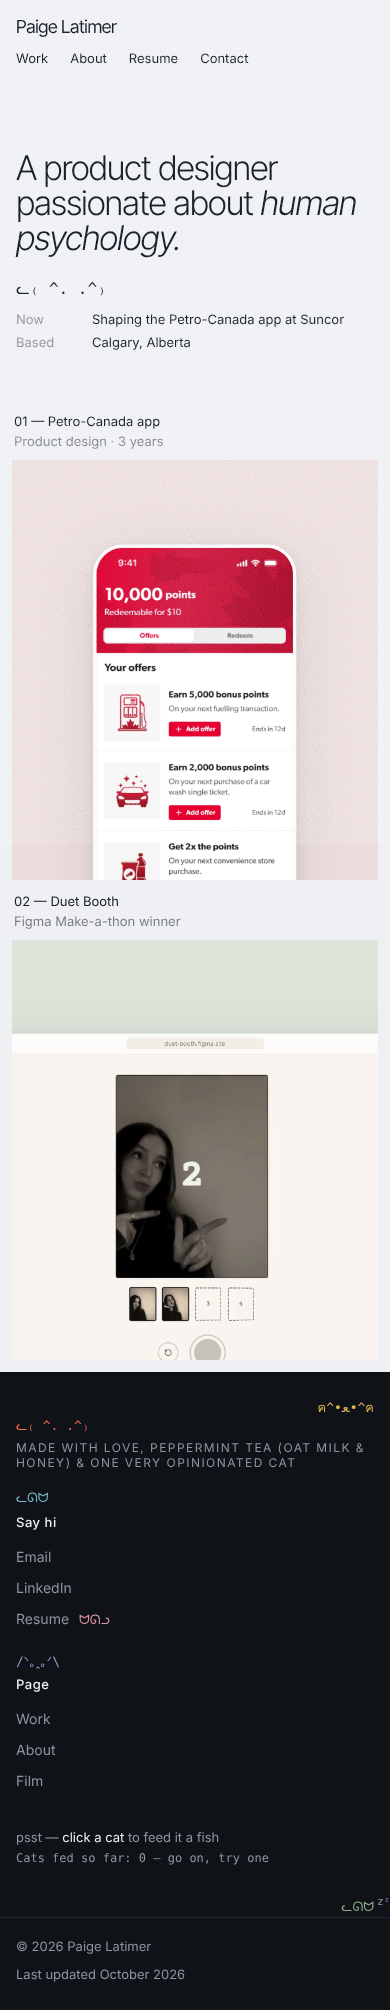
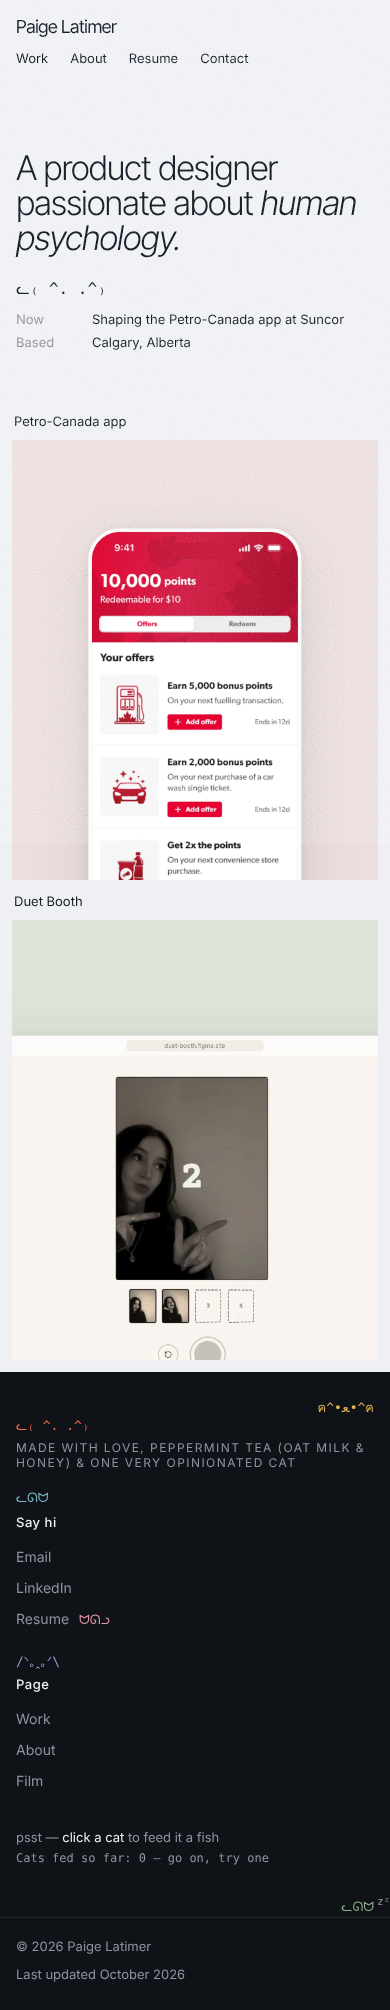
Trim the project labels to just the names
Claude-Session: https://claude.ai/code/session_01LVFAFj7EPf4VzMPLLNaaoo

diff --git a/index.html b/index.html
@@ -75,8 +75,7 @@
 
             <a class="rd-work__item rd-work__item--glow rd-work__item--petro rd-reveal" href="petro-protected.html">
                 <span class="rd-work__text">
-                    <span class="rd-work__label">01 — Petro-Canada app</span>
-                    <span class="rd-work__note">Product design · 3 years</span>
+                    <span class="rd-work__label">Petro-Canada app</span>
                 </span>
                 <span class="rd-work__media">
                     <img class="rd-work__subject" src="img/home/petro-phone.webp" width="542" height="1100" alt="The Petro-Canada app's offer hub, a list of Petro-Points offers to add">
@@ -85,8 +84,7 @@
 
             <a class="rd-work__item rd-work__item--glow rd-work__item--duet rd-reveal" href="duet-booth.html">
                 <span class="rd-work__text">
-                    <span class="rd-work__label">02 — Duet Booth</span>
-                    <span class="rd-work__note">Figma Make-a-thon winner</span>
+                    <span class="rd-work__label">Duet Booth</span>
                 </span>
                 <span class="rd-work__media">
                     <img class="rd-work__subject" src="img/home/duet-window.webp" width="1800" height="1209" alt="Duet Booth in a browser: the live camera counting down, with two of four shots taken">
